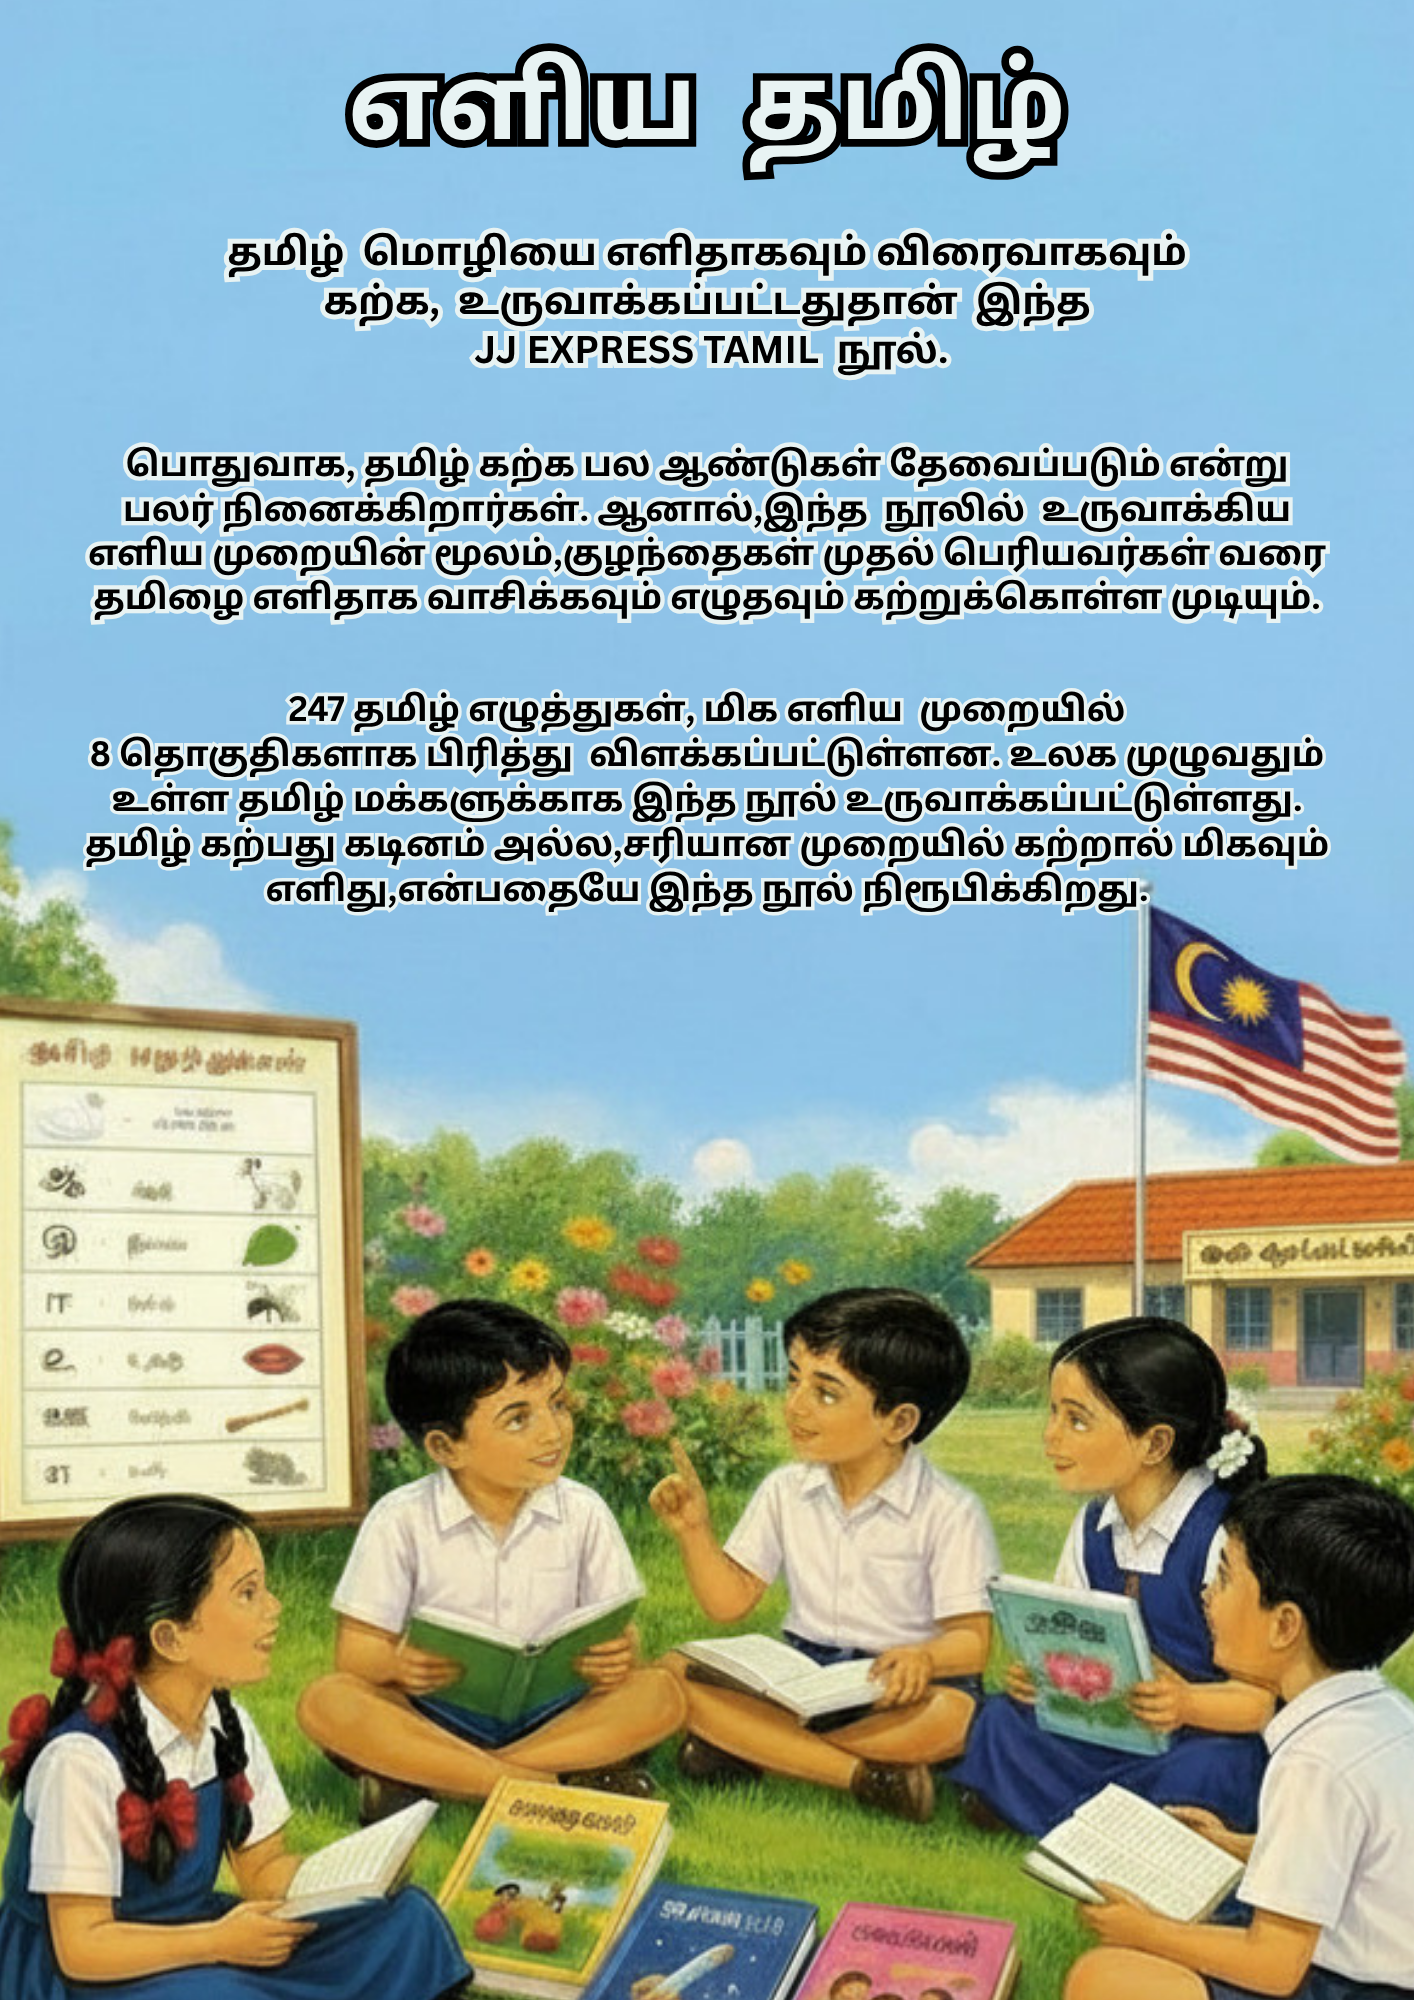
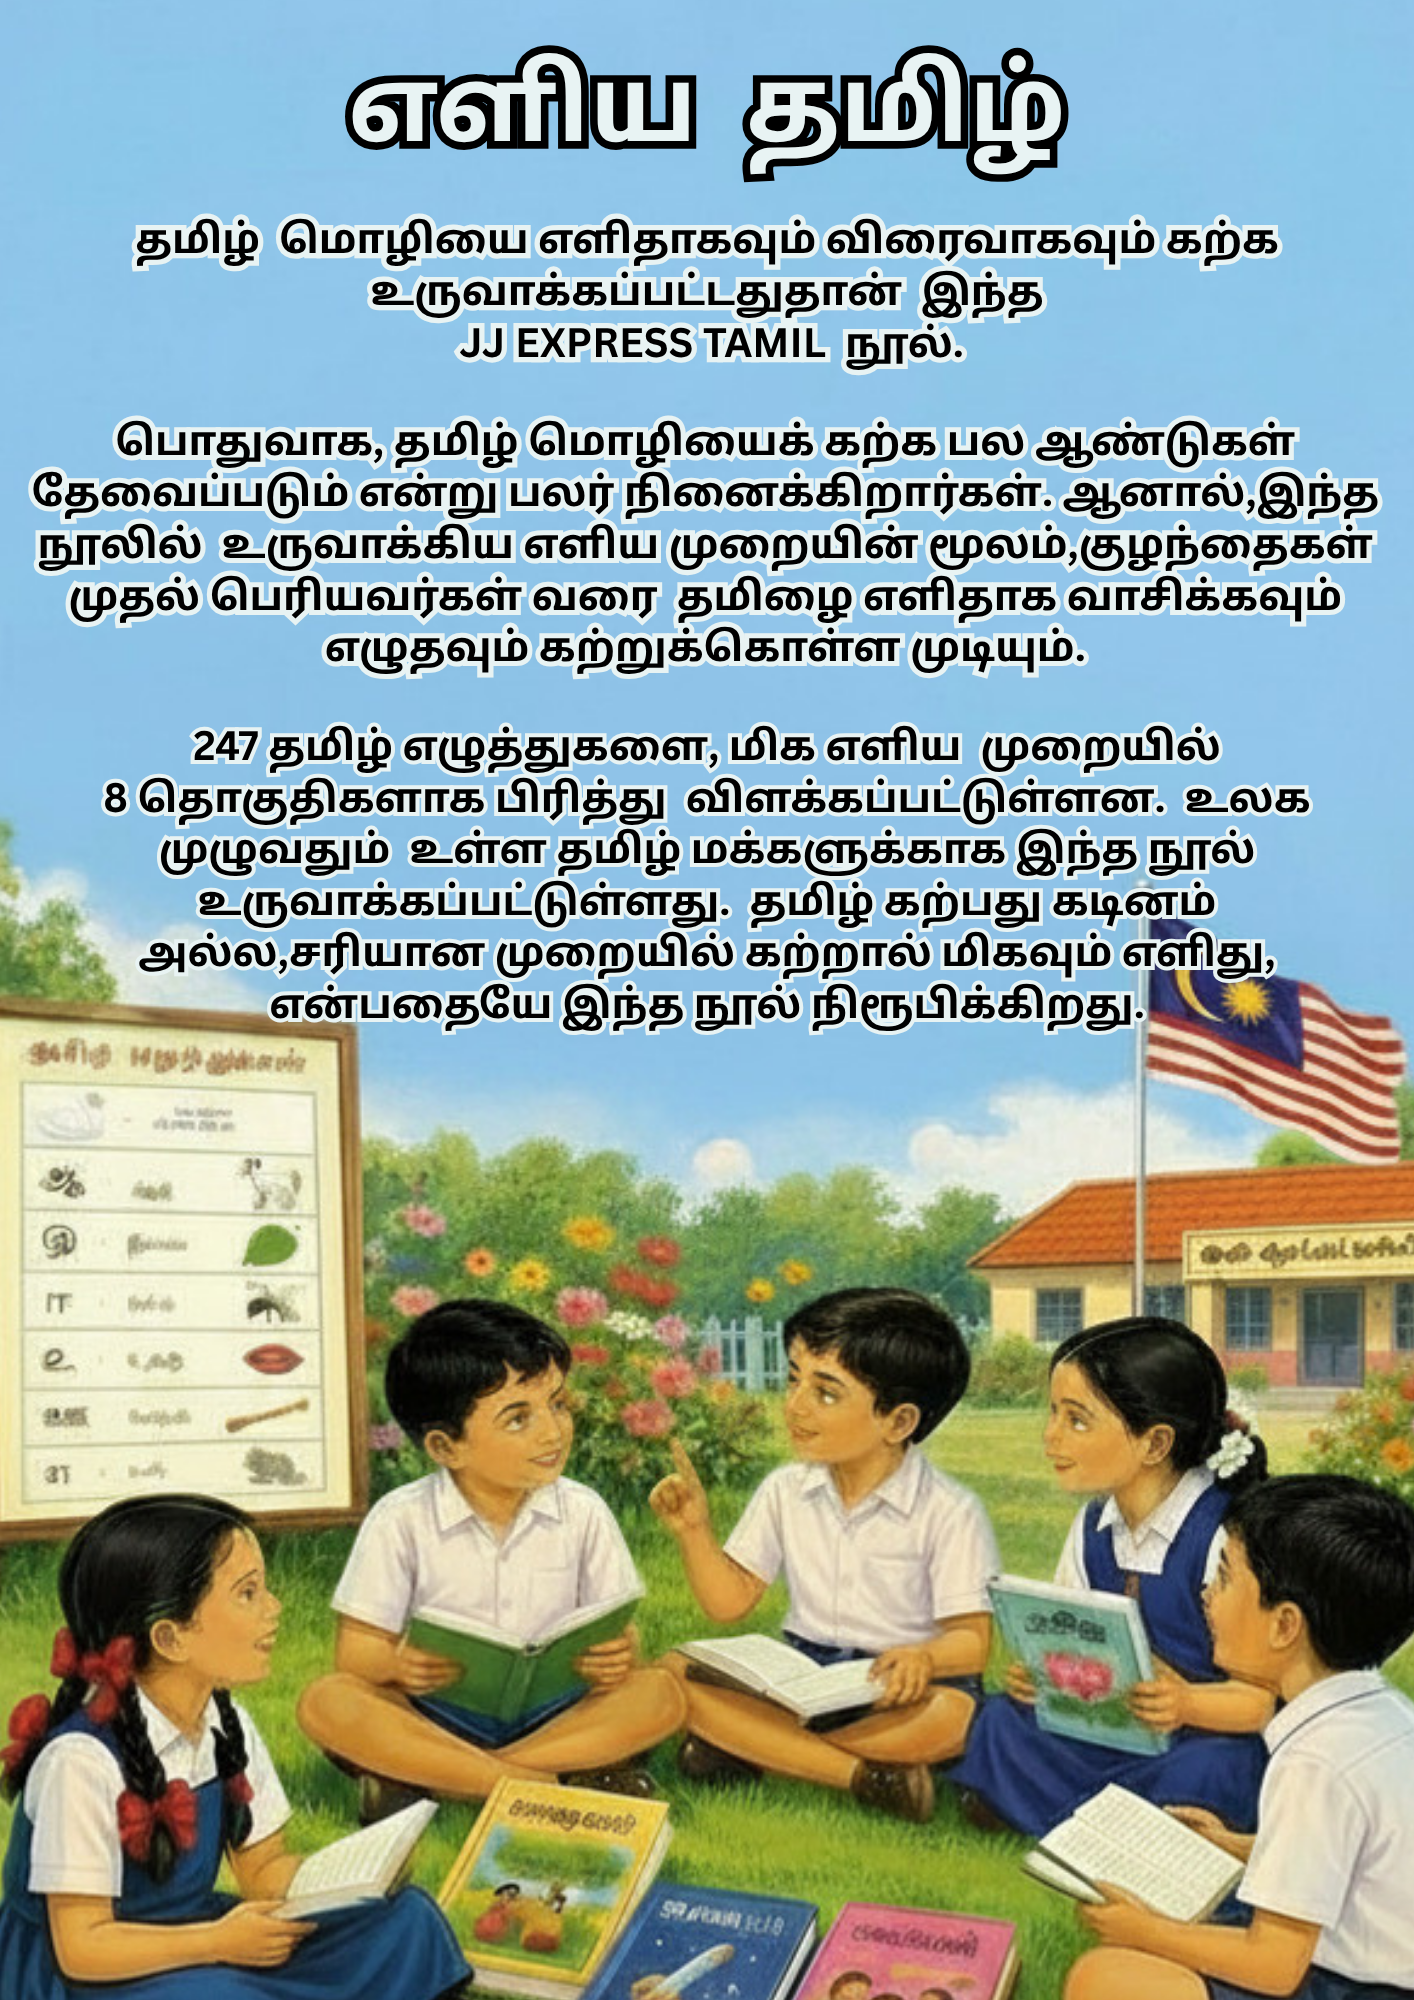
update made to some pages

Changed region(s): [[0.0, 0.031, 0.9958, 0.527]]

diff --git a/maathanggal1.html b/maathanggal1.html
@@ -1397,7 +1397,7 @@ body{
 
             <span class="speaker-icon">🔊</span>
 
-            <span class="highlight">• அறம்</span>
+            <span class="highlight">• அறஞ்</span>
             <span class="highlight">செய</span>
             <span class="highlight">விரும்பு</span>
 
@@ -1478,9 +1478,8 @@ body{
 
             <span class="speaker-icon">🔊</span>
 
-            <span class="highlight">• எண்</span>
-            <span class="highlight">எழுத்து</span>
-            <span class="highlight">இகழேல்</span>
+            <span class="highlight">• எண்ணெழுத்</span>
+            <span class="highlight">திகழேல்</span>
 
         </button>
 
@@ -1491,8 +1490,8 @@ body{
 
             <span class="speaker-icon">🔊</span>
 
-            <span class="highlight">• ஏற்பது</span>
-            <span class="highlight">இகழ்ச்சி</span>
+            <span class="highlight">• ஏற்ப</span>
+            <span class="highlight">திகழ்ச்சி</span>
 
         </button>
 
@@ -1503,9 +1502,8 @@ body{
 
             <span class="speaker-icon">🔊</span>
 
-            <span class="highlight">• ஐயம்</span>
-            <span class="highlight">இட்டு</span>
-            <span class="highlight">உண்</span>
+            <span class="highlight">• ஐய</span>
+            <span class="highlight">மிட்டுண்</span>
 
         </button>
 
@@ -1517,7 +1515,7 @@ body{
             <span class="speaker-icon">🔊</span>
 
             <span class="highlight">• ஒப்புர</span>
-            <span class="highlight">ஒழுகு</span>
+            <span class="highlight">வொழுகு</span>
 
         </button>
 
@@ -1528,8 +1526,8 @@ body{
 
             <span class="speaker-icon">🔊</span>
 
-            <span class="highlight">• ஓதுவது</span>
-            <span class="highlight">ஒழியேல்</span>
+            <span class="highlight">• ஓதுவ</span>
+            <span class="highlight">தொழியேல்</span>
 
         </button>
 

diff --git a/vaasi12.html b/vaasi12.html
@@ -892,7 +892,7 @@ body{
         <div class="word speaker"
              data-audio="vaasi141.mp3">
 
-            <span class="letter">ஆ</span><span class="letter">சி</span><span class="letter">ரி</span><span class="letter">யை</span>
+            <span class="letter">ஆ</span><span class="letter">சி</span><span class="letter">ரி</span><span class="letter">யர்</span>
 
         </div>
 

diff --git a/page37.html b/page37.html
@@ -520,7 +520,7 @@ body{
         <div class="audio-card" onclick="toggleAudio1()">
 
             <div class="card-header">
-                <div class="card-title" id="teacherTitle">ஆசிரியை</div>
+                <div class="card-title" id="teacherTitle">ஆசிரியர்</div>
                 <img src="page37pic1.png" class="card-image" alt="">
             </div>
 
